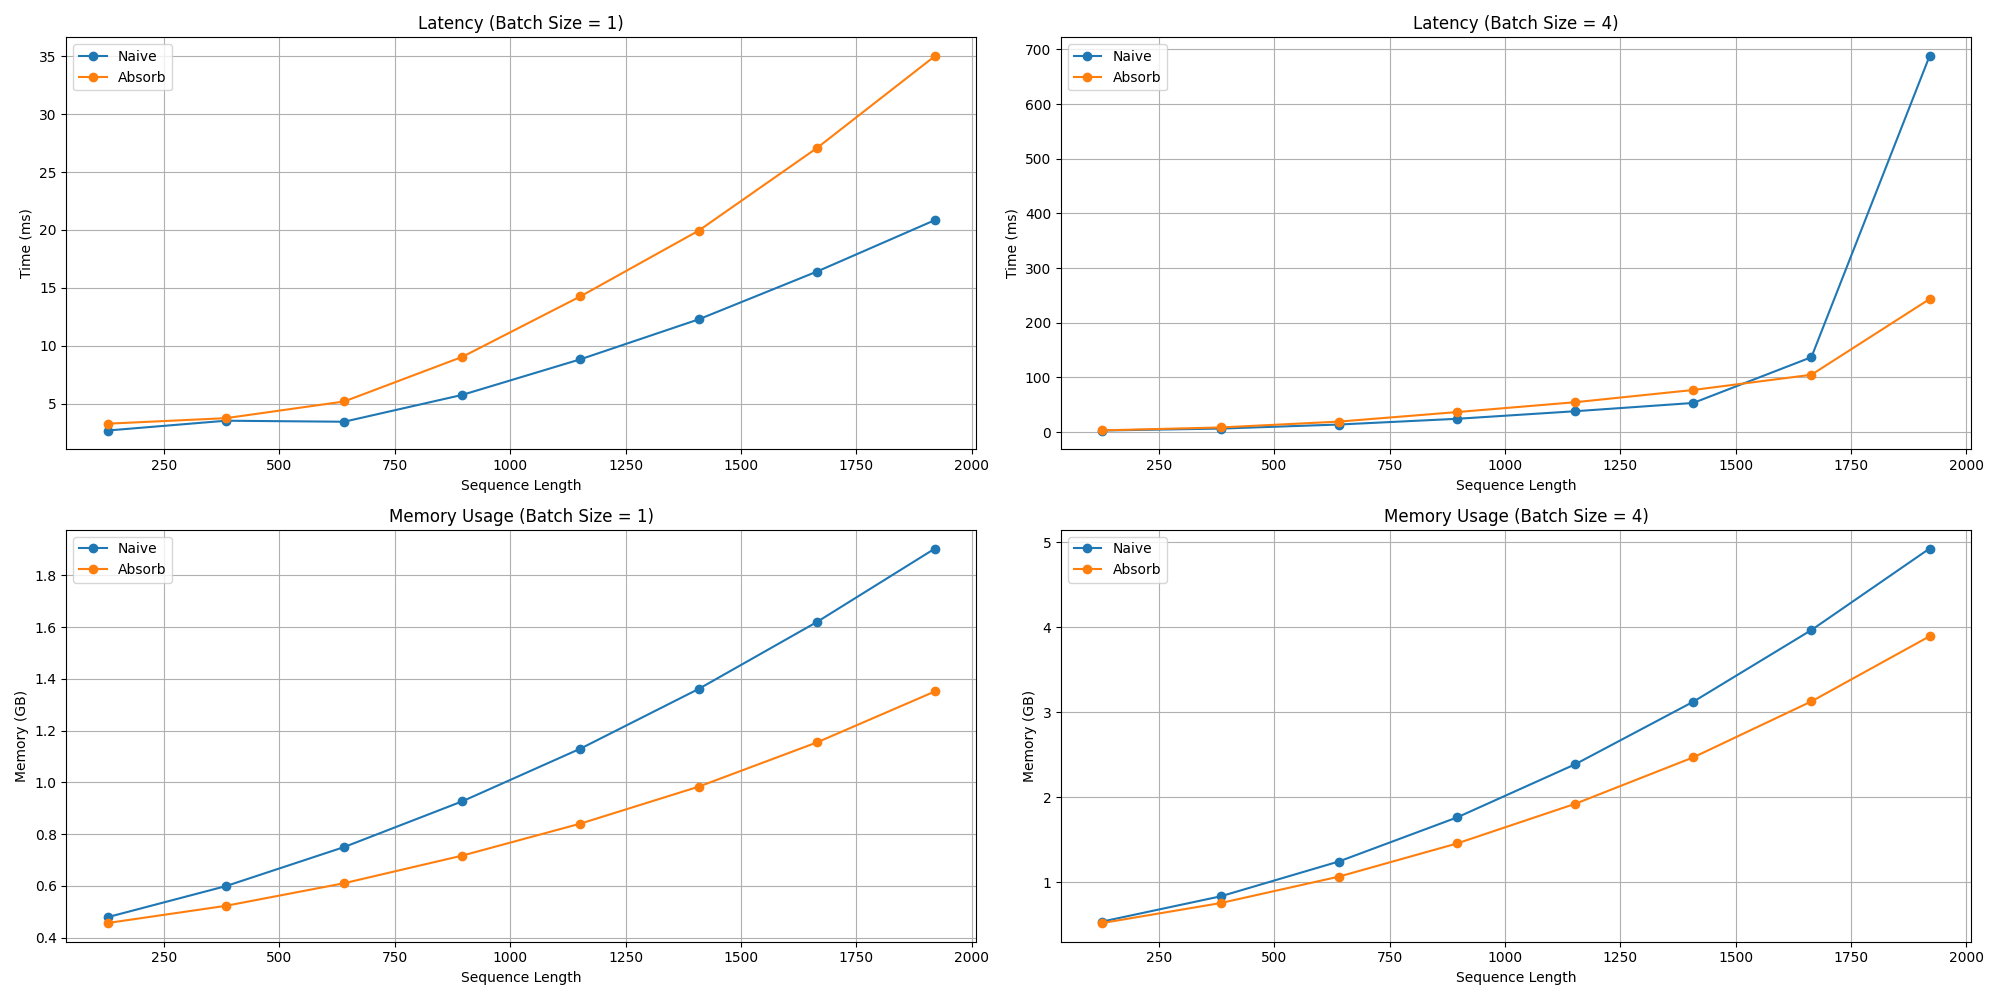
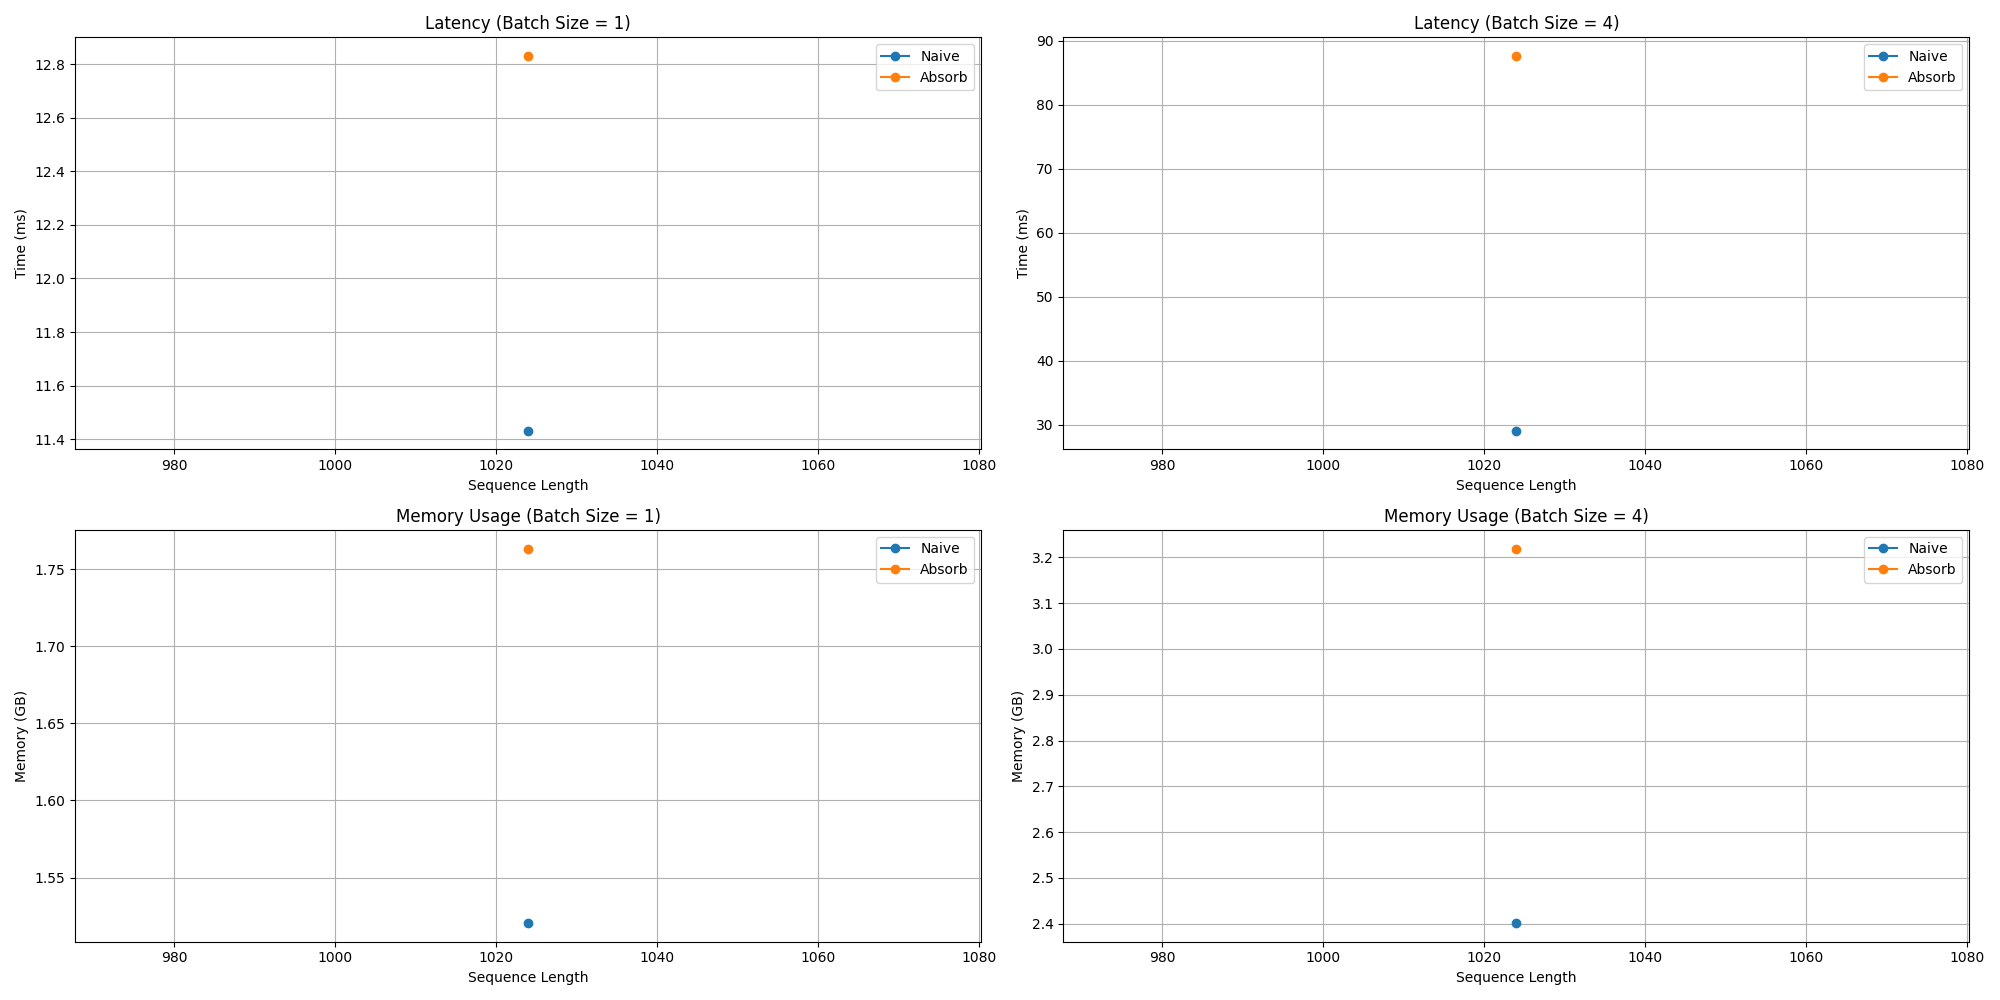
Fixed flash Attention

diff --git a/kernels/flash_attention_v2_tri_ref.py b/kernels/flash_attention_v2_tri_ref.py
@@ -43,11 +43,13 @@ def _attn_fwd_inner(acc, l_i, m_i, q,  #
     # causal = False
     else:
         lo, hi = 0, N_CTX
+        
     K_block_ptr = tl.advance(K_block_ptr, (0, lo))
     V_block_ptr = tl.advance(V_block_ptr, (lo, 0))
     # loop over k, v and update accumulator
-    for start_n in range(lo, hi, BLOCK_N):
+    for start_n in range(lo,  min(hi, N_CTX), BLOCK_N):
         start_n = tl.multiple_of(start_n, BLOCK_N)
+
         # -- compute qk ----
         k = tl.load(K_block_ptr)
         qk = tl.dot(q, k)
@@ -61,11 +63,14 @@ def _attn_fwd_inner(acc, l_i, m_i, q,  #
             qk = qk * qk_scale - m_ij[:, None]
         p = tl.math.exp2(qk)
         l_ij = tl.sum(p, 1)
+        
         # -- update m_i and l_i
         alpha = tl.math.exp2(m_i - m_ij)
         l_i = l_i * alpha + l_ij
+        
         # -- update output accumulator --
         acc = acc * alpha[:, None]
+
         # update acc
         v = tl.load(V_block_ptr)
         if fp8_v:
@@ -73,6 +78,7 @@ def _attn_fwd_inner(acc, l_i, m_i, q,  #
         else:
             p = p.to(v.dtype)
         acc = tl.dot(p, v, acc)
+        
         # update m_i and l_i
         m_i = m_ij
         V_block_ptr = tl.advance(V_block_ptr, (BLOCK_N, 0))
@@ -80,64 +86,18 @@ def _attn_fwd_inner(acc, l_i, m_i, q,  #
     return acc, l_i, m_i
 
 
-@triton.jit
-def _attn_fwd_inner_tma(acc, l_i, m_i, q,  #
-                        desc_k, desc_v,  #
-                        offset_y, dtype: tl.constexpr, start_m, qk_scale,  #
-                        BLOCK_M: tl.constexpr, HEAD_DIM: tl.constexpr, BLOCK_N: tl.constexpr,  #
-                        STAGE: tl.constexpr, offs_m: tl.constexpr, offs_n: tl.constexpr,  #
-                        N_CTX: tl.constexpr):
-    # range of values handled by this stage
-    if STAGE == 1:
-        lo, hi = 0, start_m * BLOCK_M
-    elif STAGE == 2:
-        lo, hi = start_m * BLOCK_M, (start_m + 1) * BLOCK_M
-        lo = tl.multiple_of(lo, BLOCK_M)
-    # causal = False
-    else:
-        lo, hi = 0, N_CTX
-    offsetkv_y = offset_y + lo
-    # loop over k, v and update accumulator
-    for start_n in range(lo, hi, BLOCK_N):
-        start_n = tl.multiple_of(start_n, BLOCK_N)
-        # -- compute qk ----
-        k = desc_k.load([offsetkv_y, 0]).T
-        qk = tl.dot(q, k)
-        if STAGE == 2:
-            mask = offs_m[:, None] >= (start_n + offs_n[None, :])
-            qk = qk * qk_scale + tl.where(mask, 0, -1.0e6)
-            m_ij = tl.maximum(m_i, tl.max(qk, 1))
-            qk -= m_ij[:, None]
-        else:
-            m_ij = tl.maximum(m_i, tl.max(qk, 1) * qk_scale)
-            qk = qk * qk_scale - m_ij[:, None]
-        p = tl.math.exp2(qk)
-        l_ij = tl.sum(p, 1)
-        # -- update m_i and l_i
-        alpha = tl.math.exp2(m_i - m_ij)
-        l_i = l_i * alpha + l_ij
-        # -- update output accumulator --
-        acc = acc * alpha[:, None]
-        # update acc
-        v = desc_v.load([offsetkv_y, 0])
-        p = p.to(dtype)
-        # note that this non transposed v for FP8 is only supported on Blackwell
-        acc = tl.dot(p, v, acc)
-        # update m_i and l_i
-        m_i = m_ij
-        offsetkv_y += BLOCK_N
-    return acc, l_i, m_i
-
-
 # We don't run auto-tuning every time to keep the tutorial fast. Keeping
 # the code below and commenting out the equivalent parameters is convenient for
 # re-tuning.
+# configs = [
+#     triton.Config({'BLOCK_M': BM, 'BLOCK_N': BN}, num_stages=s, num_warps=w) \
+#     for BM in [64, 128]\
+#     for BN in [32, 64]\
+#     for s in [3, 4, 7]\
+#     for w in [4, 8]\
+# ]
 configs = [
-    triton.Config({'BLOCK_M': BM, 'BLOCK_N': BN}, num_stages=s, num_warps=w) \
-    for BM in [64, 128]\
-    for BN in [32, 64]\
-    for s in [3, 4, 7]\
-    for w in [4, 8]\
+    triton.Config({'BLOCK_M': 64, 'BLOCK_N': 64}, num_stages=3, num_warps=4),
 ]
 
 
@@ -237,6 +197,7 @@ def _attn_fwd(Q, K, V, sm_scale, M, Out,  #
     m_i += tl.math.log2(l_i)
     acc = acc / l_i[:, None]
     m_ptrs = M + off_hz * N_CTX + offs_m
+
     tl.store(m_ptrs, m_i)
     tl.store(O_block_ptr, acc.to(Out.type.element_ty))
 
@@ -247,30 +208,61 @@ class _attention(torch.autograd.Function):
         # shape constraints
         HEAD_DIM_Q, HEAD_DIM_K = q.shape[-1], k.shape[-1]
         HEAD_DIM_V = v.shape[-1] # when v is in float8_e5m2 it is transposed.
-        assert HEAD_DIM_Q == HEAD_DIM_K
-        assert HEAD_DIM_K in {16, 32, 64, 128, 192, 256}
-        
+        assert HEAD_DIM_Q == HEAD_DIM_K == HEAD_DIM_V
+        assert HEAD_DIM_K in {16, 32, 64, 128, 256}
+
         stage = 3 if causal else 1
         extra_kern_args = {}
 
-        o = torch.empty_like(q)
-        M = torch.empty((q.shape[0], q.shape[1], q.shape[2]), device=q.device, dtype=torch.float32)
+        # --- FIX STARTS HERE ---
 
-        grid = lambda args: (triton.cdiv(q.shape[2], args["BLOCK_M"]), q.shape[0] * q.shape[1], 1)
+        # Input shape is (Z, N_CTX, H, HEAD_DIM) based on your prints
+        # e.g., (4, 640, 16, 128)
+        Z = q.shape[0]
+        N_CTX = q.shape[1] # Actual sequence length
+        H = q.shape[2]     # Actual number of heads
+        # HEAD_DIM_K is already correctly calculated from q.shape[-1]
+
+        o = torch.empty_like(q)
+        # M shape should be (Z, H, N_CTX) matching kernel's internal logic for M ptrs
+        M = torch.empty((Z, H, N_CTX), device=q.device, dtype=torch.float32) # Adjusted shape for M
+
+        # Grid calculation using CORRECT N_CTX and H
+        # Grid dim 0 depends on N_CTX (sequence length along M dim)
+        # Grid dim 1 depends on Z * H (batch * heads)
+        grid = lambda args: (triton.cdiv(N_CTX, args["BLOCK_M"]), Z * H, 1)
+
+        # ----- DEBUG PRINTS START (Optional: keep or remove) -----
+        # print(f"--- Corrected Interpretation ---")
+        # print(f"[DEBUG] q.shape: {q.shape}, q.stride(): {q.stride()}, q.is_contiguous(): {q.is_contiguous()}")
+        # print(f"[DEBUG] k.shape: {k.shape}, k.stride(): {k.stride()}, k.is_contiguous(): {k.is_contiguous()}")
+        # print(f"[DEBUG] v.shape: {v.shape}, v.stride(): {v.stride()}, v.is_contiguous(): {v.is_contiguous()}")
+        # print(f"[DEBUG] o.shape: {o.shape}, o.stride(): {o.stride()}, o.is_contiguous(): {o.is_contiguous()}")
+        # print(f"[DEBUG] Correct N_CTX: {N_CTX}, HEAD_DIM: {HEAD_DIM_K}, Z: {Z}, Correct H: {H}")
+        # print(f"[DEBUG] causal: {causal}, sm_scale: {sm_scale}, stage: {stage}")
+        # ----- DEBUG PRINTS END -----
 
         _attn_fwd[grid](
-            q, k, v, sm_scale, M, o,  #
-            q.stride(0), q.stride(1), q.stride(2), q.stride(3),  #
-            k.stride(0), k.stride(1), k.stride(2), k.stride(3),  #
-            v.stride(0), v.stride(1), v.stride(2), v.stride(3),  #
-            o.stride(0), o.stride(1), o.stride(2), o.stride(3),  #
-            q.shape[0], q.shape[1],  #
-            N_CTX=q.shape[2],  #
-            HEAD_DIM=HEAD_DIM_K,  #
-            STAGE=stage,  #
-            **extra_kern_args)
+            q, k, v, sm_scale, M, o,  # Tensor arguments
+            # Stride arguments - REORDERED to match kernel expectations (Z, H, M/N, K/V)
+            # Kernel expects: stride_qz, stride_qh, stride_qm, stride_qk
+            # Actual layout:   (Z=0,    N_CTX=1,  H=2,      HDIM=3)
+            # So we pass:      stride(0), stride(2), stride(1), stride(3)
+            q.stride(0), q.stride(2), q.stride(1), q.stride(3),  # Strides for Q
+            k.stride(0), k.stride(2), k.stride(1), k.stride(3),  # Strides for K
+            v.stride(0), v.stride(2), v.stride(1), v.stride(3),  # Strides for V
+            o.stride(0), o.stride(2), o.stride(1), o.stride(3),  # Strides for O
+            # Dimension arguments - Pass CORRECT values
+            Z, H,
+            N_CTX=N_CTX,
+            HEAD_DIM=HEAD_DIM_K,
+            STAGE=stage,
+            **extra_kern_args
+        )
 
-        # ctx.save_for_backward(q, k, v, o, M)
+        # --- FIX ENDS HERE ---
+
+        # ctx.save_for_backward(q, k, v, o, M) # Keep commented if backward not needed
         # ctx.sm_scale = sm_scale
         # ctx.HEAD_DIM = HEAD_DIM_K
         # ctx.causal = causal

diff --git a/benchmark.py b/benchmark.py
@@ -155,7 +155,7 @@ def main():
     parser = argparse.ArgumentParser(description='Benchmark MLA implementations')
     parser.add_argument('--dtype', type=str, default='bf16', choices=['bf16', 'fp8'], help='Data type for benchmark')
     parser.add_argument('--min-seq-len', type=int, default=128, help='Minimum sequence length to benchmark')
-    parser.add_argument('--max-seq-len', type=int, default=2048, help='Maximum sequence length to benchmark')
+    parser.add_argument('--max-seq-len', type=int, default=4096, help='Maximum sequence length to benchmark')
     parser.add_argument('--seq-len-step', type=int, default=256, help='Step size for sequence length')
     parser.add_argument('--batch-sizes', type=int, nargs='+', default=[1, 4], help='Batch sizes to benchmark')
     parser.add_argument('--output', type=str, default='mla_benchmark', help='Output file prefix')

diff --git a/attention_impl/naive_mla.py b/attention_impl/naive_mla.py
@@ -14,7 +14,6 @@ import math
 from .Shared_Args import Args
 from .General_Layers import *
 
-# from kernels.flash_attention_v2_tri import _flashattention
 from kernels.flash_attention_v2_tri_ref import _attention as _flashattention
 
 
